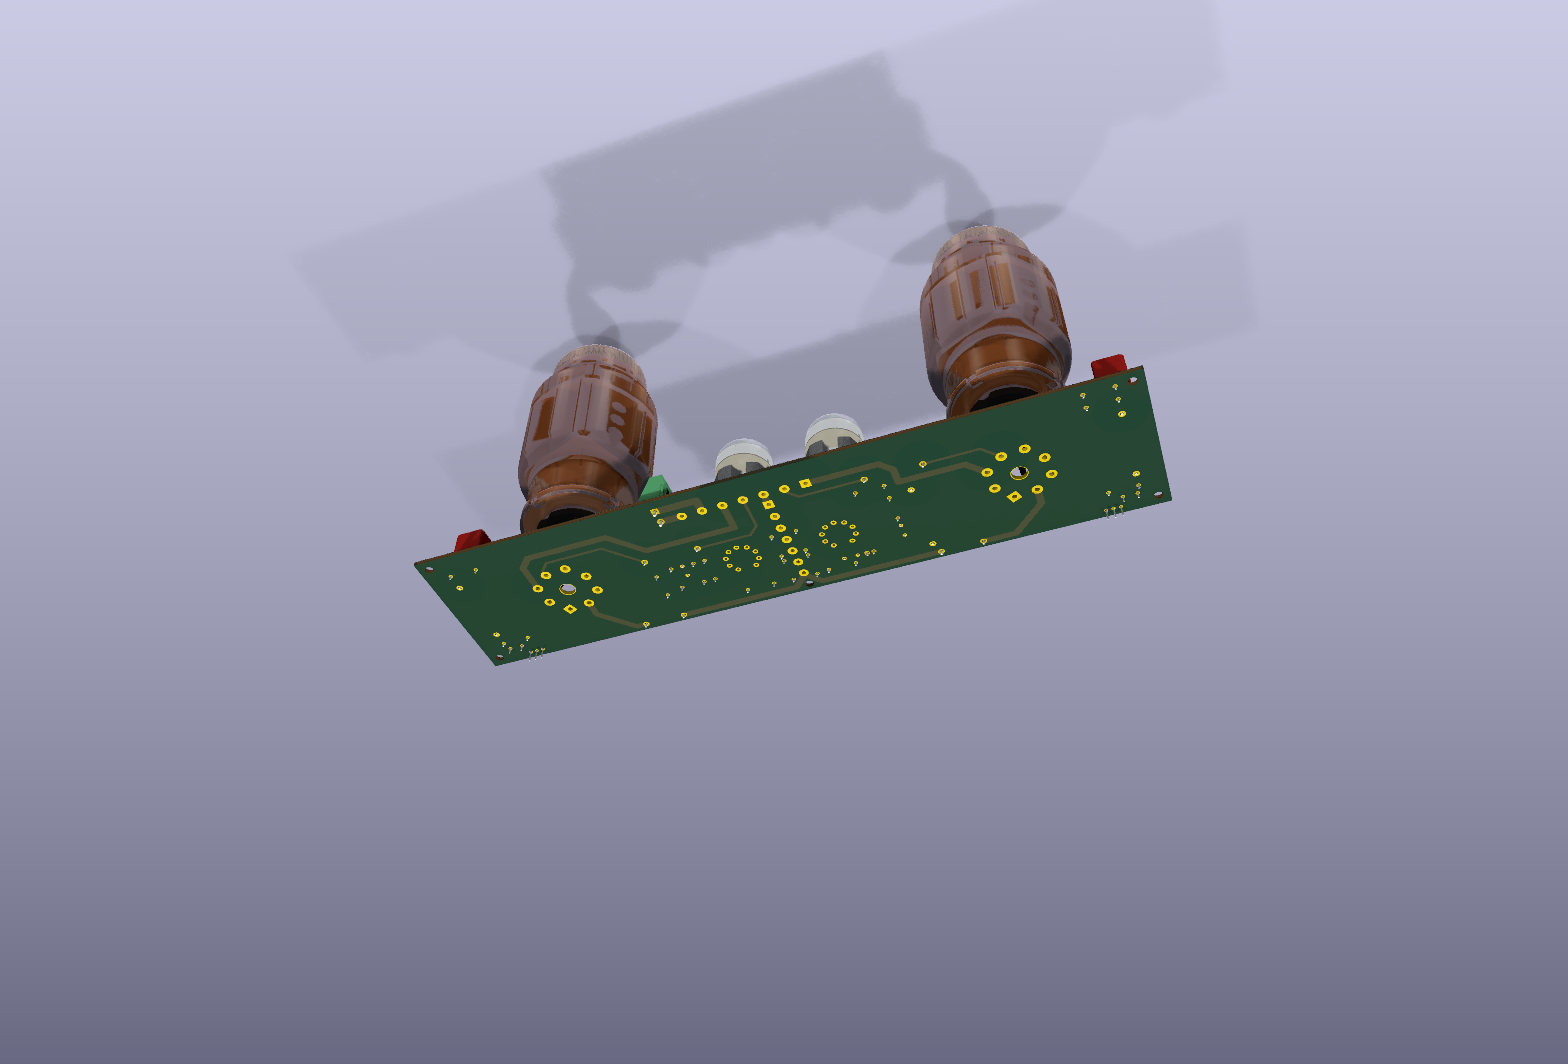
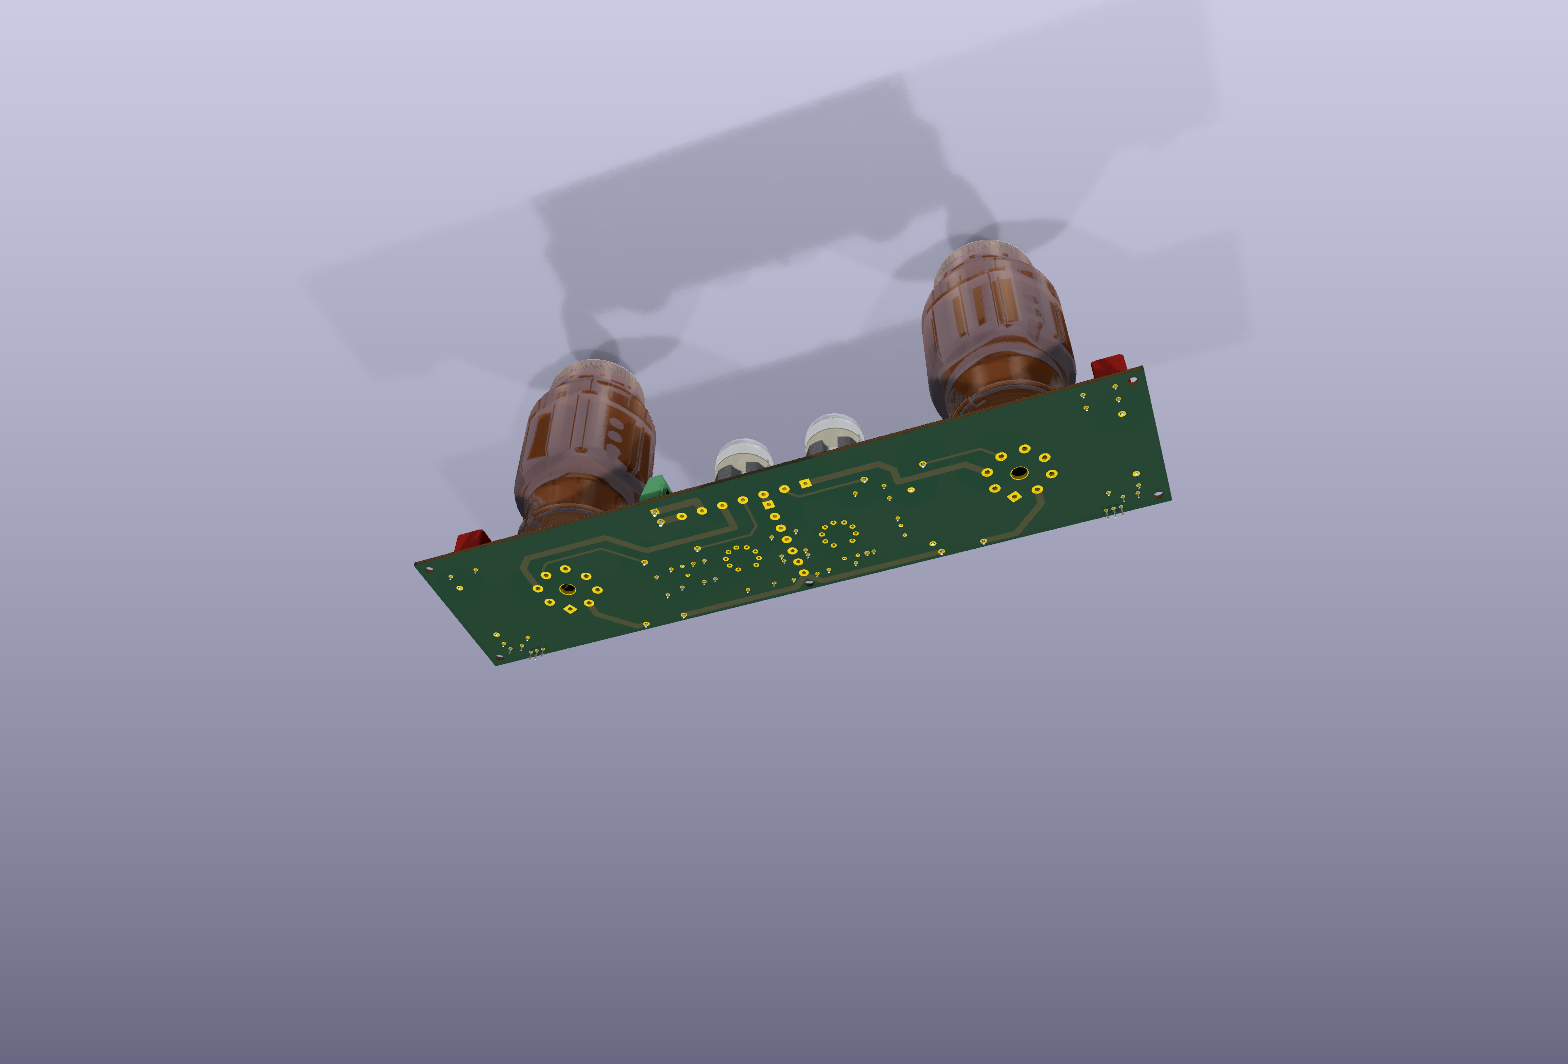
Seat the JJ KT88 model on the PCB
The model has no socket of its own, so its base now starts at the board
surface (Z offset 0 instead of 10 mm).

Claude-Session: https://claude.ai/code/session_01UGTfomFoJpSxmm1Y2WvCrZ

diff --git a/3dmodels/README.md b/3dmodels/README.md
@@ -11,7 +11,7 @@ Both are visual approximations, not manufacturer-certified mechanical models. Ba
 KT88_JJ.wrl and KT88_JJ.stpz are the JJ Electronic KT88 from a SketchUp model on 3D Warehouse ("JJ TESLA KT88 Vacuum tube"), exported as STL in 0.1 mm units and converted here: scaled to mm, base bottom at Z=0, 52.6 mm across and 113.4 mm tall (JJ data sheet: 52 mm and 110 mm max seated, 125 mm with pins; the pins are not in the model). The VRML keeps every triangle, with the base below 16 mm opaque and the glass above it transparent amber; the STEP is a faceted mesh reduced to 25 102 triangles by 0.5 mm vertex clustering, gzipped (KiCad reads .stpz). Check the 3D Warehouse licence before redistributing it.
 
 Board offsets, in KiCad model coordinates:
-- V3/V4 KT88 (KT88_JJ.wrl): (-7.62, +7.62, +10) mm. Assumed socket seat 10 mm above PCB; the socket body itself is not drawn.
+- V3/V4 KT88 (KT88_JJ.wrl): (-7.62, +7.62, 0) mm: the bottom of the valve base on the PCB, no socket drawn.
 - V1/V2 ECC83: (-7.62, +5.08, +6.4) mm. Assumed socket seat 6.4 mm above PCB.
 
 Adjust socket height for the actual hardware. Tube pins and PCB socket terminals use different pitch circles.
